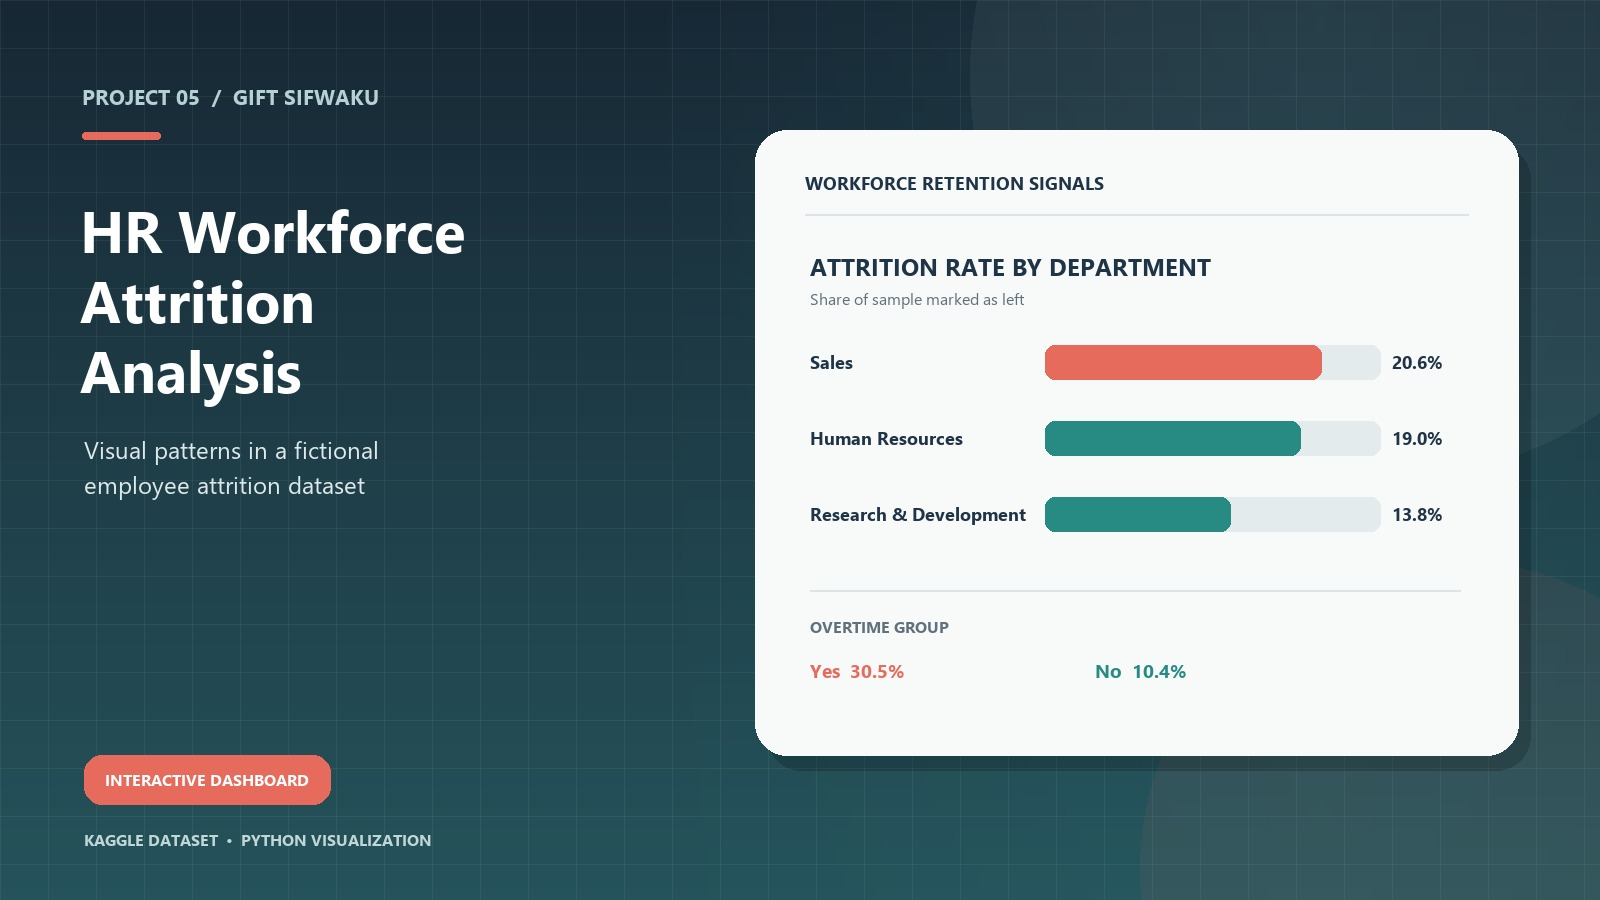
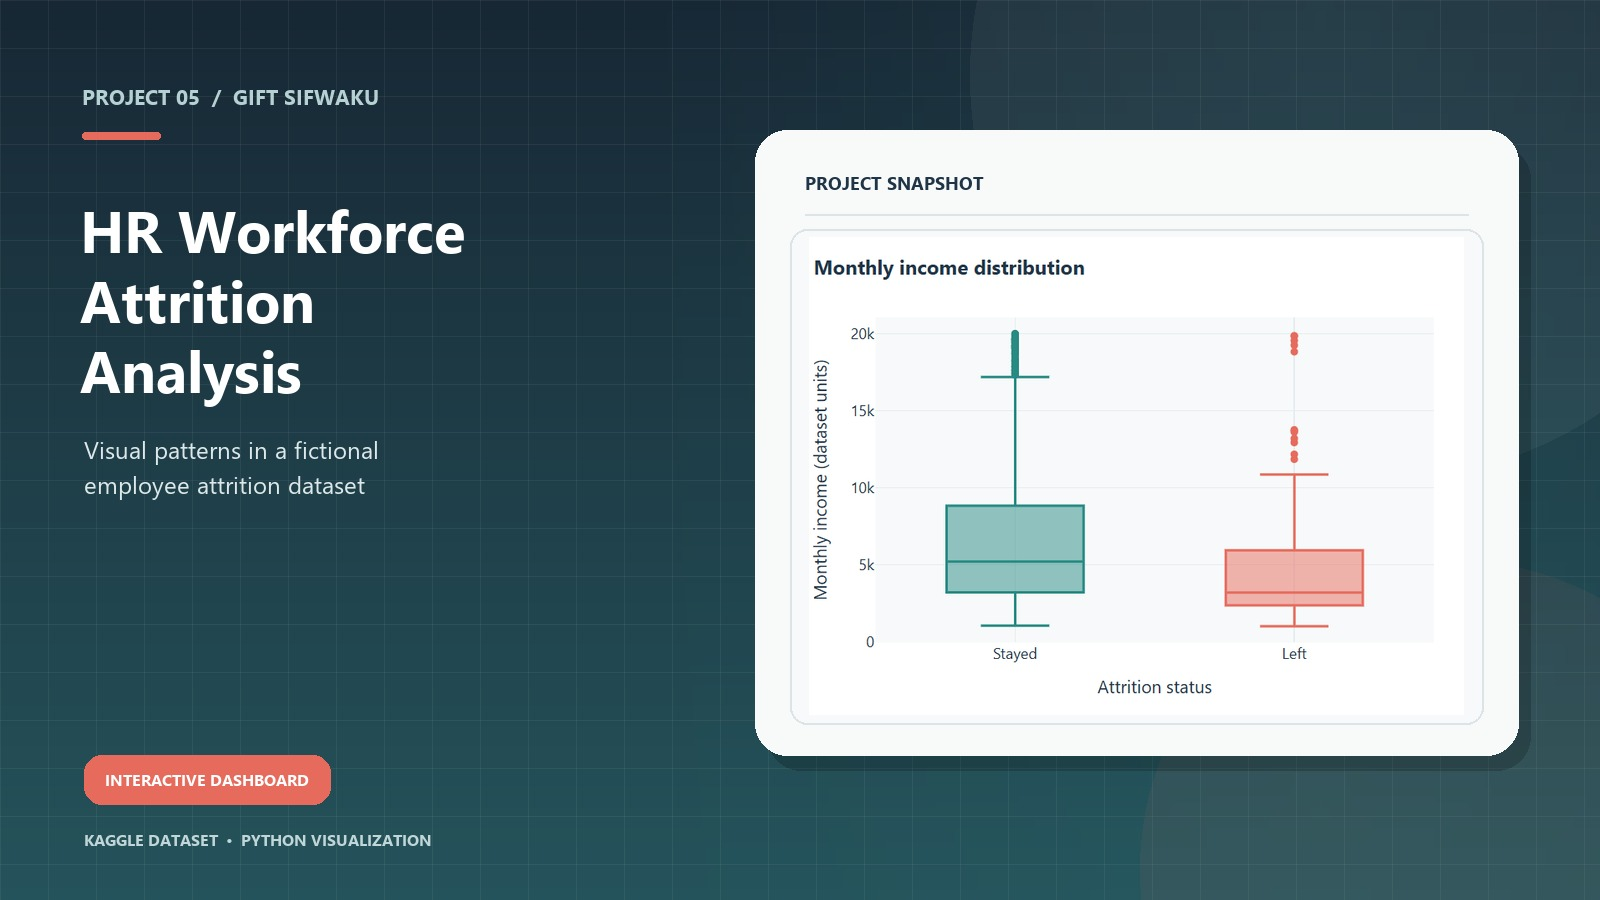
Add income chart to HR project snapshot

diff --git a/index.html b/index.html
@@ -1795,7 +1795,7 @@
           </article>
 
           <article class="project">
-            <img class="project-image" src="assets/projects/hr-attrition-visualization.jpg" alt="Kaggle IBM HR sample visualization comparing attrition rates by department and overtime">
+            <img class="project-image" src="assets/projects/hr-attrition-visualization.jpg" alt="Monthly income distribution comparison for employees who stayed and left in the Kaggle IBM HR sample">
             <div class="project-body">
               <h3>HR Workforce &amp; Attrition Visualization</h3>
 

diff --git a/projects/build_hr_visualization.py b/projects/build_hr_visualization.py
@@ -16,6 +16,7 @@ SLUG = "hr-attrition-visualization"
 PROJECT = ROOT / "projects" / SLUG
 DATA = PROJECT / "data" / "ibm_hr_employee_attrition.csv"
 COVER = ROOT / "assets" / "projects" / f"{SLUG}.jpg"
+INCOME_SNAPSHOT = PROJECT / "assets" / "monthly_income_distribution.png"
 KAGGLE_URL = "https://www.kaggle.com/datasets/pavansubhasht/ibm-hr-analytics-attrition-dataset"
 ODBL_URL = "https://opendatacommons.org/licenses/odbl/1-0/"
 
@@ -286,7 +287,7 @@ def font(size: int, bold: bool = False) -> ImageFont.FreeTypeFont | ImageFont.Im
     return ImageFont.load_default()
 
 
-def make_cover(department: pd.DataFrame, overtime_yes: float, overtime_no: float) -> None:
+def make_cover() -> None:
     width, height = 1600, 900
     image = Image.new("RGB", (width, height))
     pixels = image.load()
@@ -319,35 +320,24 @@ def make_cover(department: pd.DataFrame, overtime_yes: float, overtime_no: float
     stage = (755, 130, 1518, 755)
     draw.rounded_rectangle((stage[0] + 12, stage[1] + 15, stage[2] + 12, stage[3] + 15), radius=34, fill=(0, 0, 0, 48))
     draw.rounded_rectangle(stage, radius=32, fill=(248, 250, 250, 255))
-    draw.text((805, 170), "WORKFORCE RETENTION SIGNALS", font=font(18, True), fill=NAVY)
+    draw.text((805, 170), "PROJECT SNAPSHOT", font=font(18, True), fill=NAVY)
     draw.line((805, 214, 1468, 214), fill=LINE, width=2)
-
-    draw.text((810, 250), "ATTRITION RATE BY DEPARTMENT", font=font(24, True), fill=NAVY)
-    draw.text((810, 287), "Share of sample marked as left", font=font(16), fill="#60717D")
-    start_x = 1045
-    bar_max_width = 335
-    max_rate = max(25.0, float(department["AttritionRatePct"].max()) * 1.2)
-    for index, (_, row) in enumerate(department.iterrows()):
-        y = 345 + index * 76
-        label = str(row["Department"])
-        rate = float(row["AttritionRatePct"])
-        draw.text((810, y + 4), label, font=font(18, True), fill=NAVY)
-        draw.rounded_rectangle((start_x, y, start_x + bar_max_width, y + 34), radius=10, fill="#E4EBED")
-        bar_width = int(bar_max_width * rate / max_rate)
-        bar_color = CORAL if index == 0 else TEAL
-        draw.rounded_rectangle((start_x, y, start_x + bar_width, y + 34), radius=10, fill=bar_color)
-        draw.text((start_x + bar_max_width + 12, y + 4), f"{rate:.1f}%", font=font(18, True), fill=NAVY)
-
-    draw.line((810, 590, 1460, 590), fill=LINE, width=2)
-    draw.text((810, 615), "OVERTIME GROUP", font=font(16, True), fill="#60717D")
-    draw.text((810, 657), f"Yes  {overtime_yes:.1f}%", font=font(19, True), fill=CORAL)
-    draw.text((1095, 657), f"No  {overtime_no:.1f}%", font=font(19, True), fill=TEAL)
+    chart_box = (790, 229, 1483, 724)
+    draw.rounded_rectangle(chart_box, radius=17, fill="#F7F9FA", outline=LINE, width=2)
+    with Image.open(INCOME_SNAPSHOT) as source:
+        chart = source.convert("RGB")
+        chart.thumbnail((670, 478), Image.Resampling.LANCZOS)
+        chart_x = chart_box[0] + (chart_box[2] - chart_box[0] - chart.width) // 2
+        chart_y = chart_box[1] + (chart_box[3] - chart_box[1] - chart.height) // 2
+        image.paste(chart, (chart_x, chart_y))
     image.save(COVER, quality=92, optimize=True)
 
 
 def main() -> None:
     if not DATA.exists():
         raise FileNotFoundError(f"Dataset not found: {DATA}")
+    if not INCOME_SNAPSHOT.exists():
+        raise FileNotFoundError(f"Snapshot chart not found: {INCOME_SNAPSHOT}")
     frame = pd.read_csv(DATA)
     required = {"Attrition", "Department", "OverTime", "JobRole", "JobSatisfaction", "YearsAtCompany", "MonthlyIncome"}
     missing = sorted(required.difference(frame.columns))
@@ -373,10 +363,8 @@ def main() -> None:
     tenure.to_csv(data_dir / "tenure_summary.csv", index=False, float_format="%.2f")
     make_dashboard(frame, department, roles, satisfaction, tenure)
 
-    overtime_yes = float(frame.loc[frame["OverTime"].eq("Yes"), "Attrition"].eq("Yes").mean() * 100)
-    overtime_no = float(frame.loc[frame["OverTime"].eq("No"), "Attrition"].eq("Yes").mean() * 100)
     COVER.parent.mkdir(parents=True, exist_ok=True)
-    make_cover(department, overtime_yes, overtime_no)
+    make_cover()
 
     readme = f"""# HR Workforce & Attrition Visualization
 
@@ -398,6 +386,7 @@ python projects/build_hr_visualization.py
 - `data/job_role_attrition_summary.csv` — counts and attrition rates by job role.
 - `data/job_satisfaction_summary.csv` — counts and attrition rates by satisfaction rating.
 - `data/tenure_summary.csv` — counts and attrition rates by tenure band.
+- `assets/monthly_income_distribution.png` — supplied chart shown in the portfolio snapshot.
 - `dashboard.html` — interactive Plotly visualizations.
 
 ## Source, attribution and data note

diff --git a/projects/hr-attrition-visualization/README.md b/projects/hr-attrition-visualization/README.md
@@ -18,6 +18,7 @@ python projects/build_hr_visualization.py
 - `data/job_role_attrition_summary.csv` — counts and attrition rates by job role.
 - `data/job_satisfaction_summary.csv` — counts and attrition rates by satisfaction rating.
 - `data/tenure_summary.csv` — counts and attrition rates by tenure band.
+- `assets/monthly_income_distribution.png` — supplied chart shown in the portfolio snapshot.
 - `dashboard.html` — interactive Plotly visualizations.
 
 ## Source, attribution and data note
